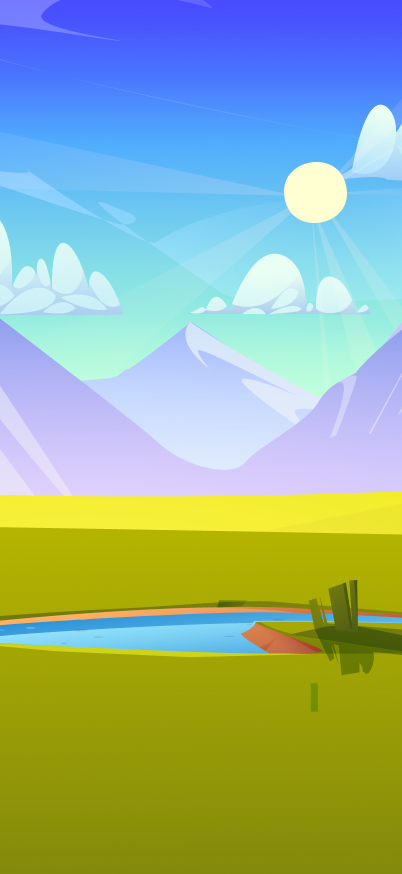
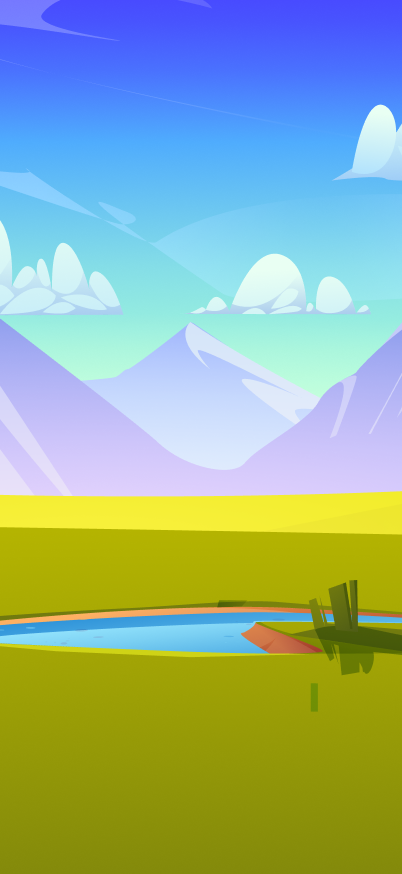
the responsive parallax has created

Changed region(s): [[0.4179, 0.1854, 0.8657, 0.278]]

diff --git a/FrontEnd/src/components/mobileHomeComponents/MobileMain/index.jsx b/FrontEnd/src/components/mobileHomeComponents/MobileMain/index.jsx
@@ -8,6 +8,7 @@ import initialBg from '../../../../public/images/mobileParallax/Home-Mobile.png'
 import mountain from '../../../../public/images/parallax/Group 20.png'
 import earth from '../../../../public/images/mobileParallax/Front.png'
 import sky from '../../../../public/images/mobileParallax/Home-2-Mobile.png'
+import sun from '../../../../public/images/mobileParallax/Sun.svg'
 import { useEffect, useRef, useState } from "react"
 import gsap from "gsap"
 import ScrollTrigger from "gsap/dist/ScrollTrigger"
@@ -75,14 +76,15 @@ const MobileMain = () => {
             <section ref={parallaxRef} className="w-full relative bg-gradient-to-b from-[#474afe] to-[#a4f1de] overflow-hidden h-screen">
 
                 <h3 ref={raamona} className={` ${isLoad ? '-translate-x-80 ' : 'translate-x-0 z-50 '} text-[30pt] z-30 transition-all duration-1000 paris text-blue font-extrabold absolute top-36 left-96 opacity-100`}>Raamona</h3>
+                <Image src={sun} className={` ${isLoad ? '-translate-x-28' : '-translate-x-52 z-50 '} text-[30pt] z-20 transition-all duration-1000 paris text-blue font-extrabold absolute top-36 left-96 opacity-100`} alt="" />
 
-                <div className="relative">
+                <div className={`relative ${isLoad ? 'flex' : 'hidden'}`}>
                     <button onClick={() => router.push('/signin')} className="rounded-full shadow-top absolute top-72 right-20 backdrop-blur-lg z-50 p-2 py-5 text-center flex flex-col items-center gap-2 text-blue">
                         <Image src={start} alt="" />
                         GET START
                     </button>
                 </div>
-                <div className="w-full flex relative">
+                <div className={`w-full ${isLoad ? 'flex' : 'hidden'} relative`}>
                     <input type="text" className="w-1/2 p-2 rounded-md border border-gray-500 shadow-lg backdrop-blur-lg placeholder:text-gray-500 top-[500px] bg-transparent left-[20%] !z-50 absolute hover:bg-slate-400  hover:placeholder:scale-110 hover:placeholder:translate-x-4 transition-all duration-700" placeholder="Search Username..." />
                     <Button
                         text={
@@ -94,9 +96,9 @@ const MobileMain = () => {
                 </div>
                 <div>
                     {/* scroll */}
-                    <Image ref={skyRef} className={`${isLoad ? 'translate-x-100 translate-y-100' : '-translate-x-full -translate-y-full'} opacity-${background} absolute h-screen w-full left-0 top-0 z-0 scale-105 transition-all duration-700 ease-out`} src={sky} alt="" />
+                    <Image ref={skyRef} className={`${isLoad ? 'scale-100 translate-y-0' : 'scale-110 -translate-y-[10%]'} opacity-${background} absolute h-screen w-full left-0 top-0 z-0 scale-105 transition-all duration-700 ease-out`} src={sky} alt="" />
                     {/* <Image className={`${isLoad ? 'opacity-100 translate-y-72' : 'opacity-0 translate-y-52'} transition-all duration-700 ease-out absolute left-0 bottom-0 w-full scale-125 z-20 `} src={earth} alt="" /> */}
-                    <Image className={`${!isLoad ? `absolute z-50 top-0 right-0 opacity-100` : 'opacity-0'} transition-all duration-500 z-40 -translate-y-52 w-full`} src={initialBg} alt="" />
+                    <Image className={`${!isLoad ? ` opacity-100` : 'opacity-0'} transition-all duration-500 fixed z-50 top-0 right-0 w-full h-screen`} src={initialBg} alt="" />
 
                 </div>
             </section>

diff --git a/FrontEnd/src/components/homeComponents/Main/index.jsx b/FrontEnd/src/components/homeComponents/Main/index.jsx
@@ -73,13 +73,13 @@ const Main = () => {
             <Header isShowPlayBtn={true} isLoggedIn={true} style={` ${isLoad ? 'opacity-100 translate-y-0' : 'opacity-0 -translate-y-full'} absolute z-50 w-[90%] transition-all duration-1000`} />
             <section ref={parallaxRef} className="w-full relative bg-gradient-to-b from-[#474afe] to-[#a4f1de] overflow-hidden h-screen">
                 <h3 ref={raamona} className={` ${isLoad ? '-translate-x-10 -translate-y-10 text-[60pt]' : 'translate-x-96 translate-y-28 text-[90pt] z-50 '} z-30 transition-all duration-1000 paris text-blue font-extrabold absolute top-36 left-96 opacity-100`}>Raamona</h3>
-                <div className="relative">
+                <div className={`relative`}>
                     <button onClick={() => router.push('/signin')} className="rounded-full shadow-top absolute top-52 right-72 backdrop-blur-lg z-50 p-5 py-8 text-center flex flex-col items-center gap-2 text-blue">
                         <Image src={start} alt="" />
                         GET START
                     </button>
                 </div>
-                <div className="w-full flex relative">
+                <div className={`w-full relative`}>
                     <input type="text" className="w-80 p-2 rounded-md border border-gray-500 shadow-md backdrop-blur-lg placeholder:text-gray-500 top-96 bg-transparent left-[40%] z-50 absolute hover:bg-slate-400  hover:placeholder:scale-110 hover:placeholder:translate-x-4 transition-all duration-700" placeholder="Search Username..." />
                     <Button
                         text={
@@ -91,9 +91,9 @@ const Main = () => {
                 </div>
                 <div>
                     {/* scroll */}
-                    <Image ref={skyRef} className={`${isLoad ? 'translate-x-100 translate-y-100' : '-translate-x-full -translate-y-full'} opacity-${background} absolute h-screen w-full left-0 top-0 z-0 scale-105 transition-all duration-700 ease-out`} src={sky} alt="" />
-                    <Image className={`${isLoad ? 'opacity-100' : 'opacity-0'} transition-all duration-700 ease-out absolute left-0 bottom-0 w-full scale-125 z-30 `} src={earth} alt="" />
-                    <Image className={`${!isLoad ? `absolute z-50 top-0 right-0 opacity-100` : 'opacity-0'} transition-all duration-500 z-40 -translate-y-52 w-full`} src={initialBg} alt="" />
+                    <Image ref={skyRef} className={`${isLoad ? 'translate-x-100 translate-y-100' : '-translate-x-full -translate-y-full'} opacity-${background} absolute h-screen hidden sm:block w-full left-0 top-0 z-0 scale-105 transition-all duration-700 ease-out`} src={sky} alt="" />
+                    <Image className={`${isLoad ? 'opacity-100' : 'opacity-0'} transition-all duration-700 hidden sm:block ease-out absolute left-0 bottom-0 w-full scale-125 z-30 `} src={earth} alt="" />
+                    <Image className={`${!isLoad ? `absolute z-50 top-0 right-0 opacity-100` : 'opacity-0'} hidden sm:block transition-all duration-500 z-40 -translate-y-52 w-full`} src={initialBg} alt="" />
 
                 </div>
             </section>

diff --git a/FrontEnd/src/components/globalComponents/Header/index.jsx b/FrontEnd/src/components/globalComponents/Header/index.jsx
@@ -8,7 +8,7 @@ import PlayButton from "../PlayButton"
 const Header = ({ style, menuStyle, isLoggedIn, isShowPlayBtn }) => {
     return (
         <>
-            <header className={style + ` flex justify-between gap-10 rounded-full shadow-xl p-5 mx-14 my-5 backdrop-blur-md`}>
+            <header className={style + ` hidden sm:flex justify-between gap-10 rounded-full shadow-xl p-5 mx-14 my-5 backdrop-blur-md`}>
                 <nav className="w-full flex gap-5">
                     <Logo />
                     <Menu style={'gap-9 text-blue ' + menuStyle} whichMenu={false} />
